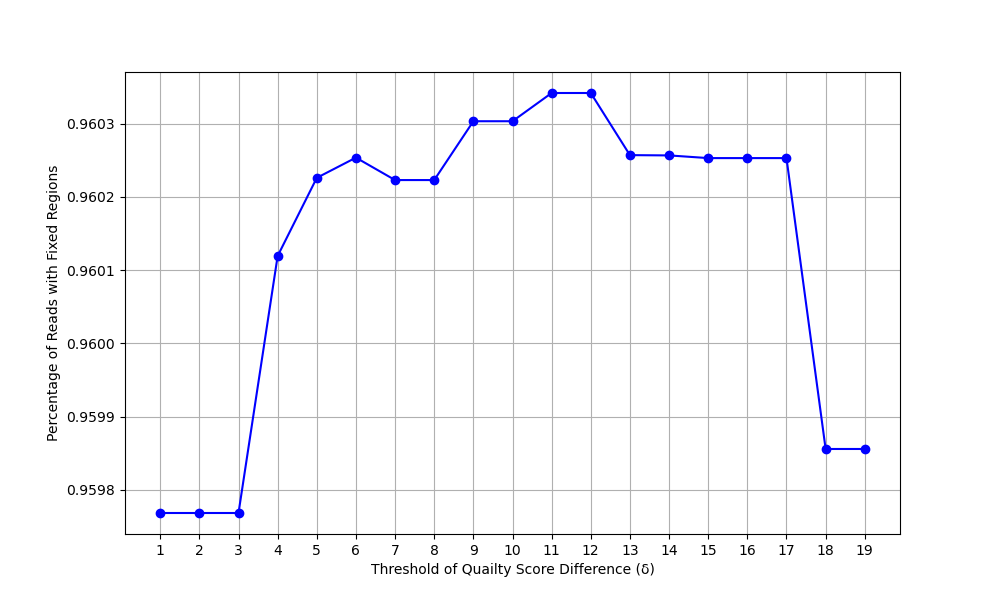
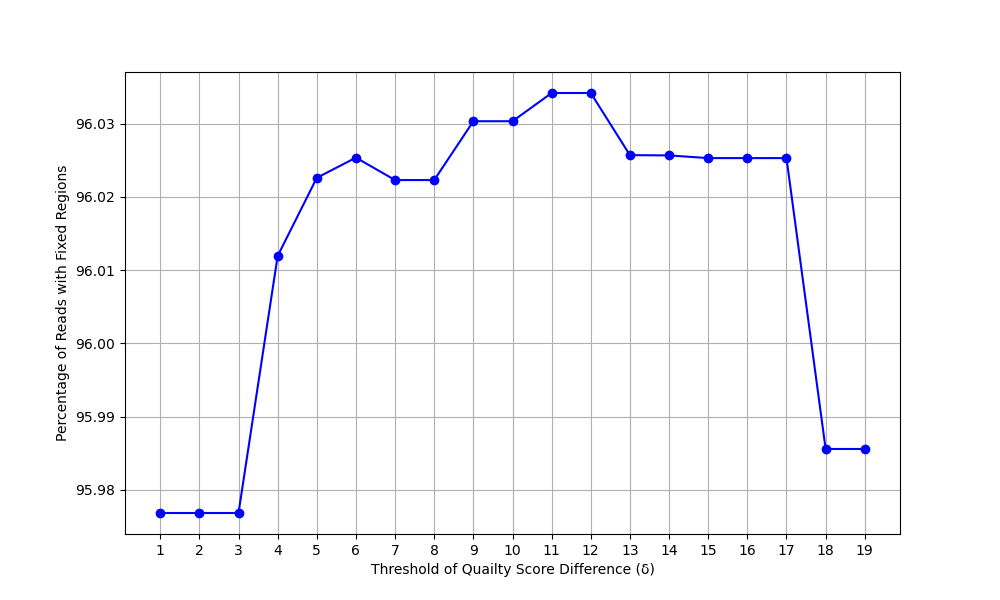
Init

Changed region(s): [[0.031, 0.27, 0.124, 0.75], [0.062, 0.81, 0.093, 0.84], [0.062, 0.18, 0.093, 0.21]]

diff --git a/dev_Tools/visualizationGraphs.py b/dev_Tools/visualizationGraphs.py
@@ -130,20 +130,20 @@ def graph_sequence_length_distribution(data_path, output_path):
     
     ax1 = fig.add_subplot(111)
     
-    ax1.bar(np.arange(len(data)) + 1, data, width=1.0, alpha=0.7)
+    ax1.bar(np.arange(len(data)), data, width=1.0, alpha=0.7)
     ax1.set_xlabel('Sequence Length (base pairs)')
     ax1.set_xlim(min(has_values)-5, max(has_values)+5)
     ax1.set_ylabel('Count')
     ax1.set_yscale('log')
     
     ax2 = ax1.twinx()
-    ax2.plot(np.arange(len(data)) + 1, percentages, color='xkcd:burnt orange', marker='o', label='Percentage of Total Sequences')
+    ax2.plot(np.arange(len(data)), percentages, color='xkcd:burnt orange', marker='o', label='Percentage of Total Sequences')
     ax2.set_ylabel('Percentage of Total Sequences (%)', color='xkcd:burnt orange')
     ax2.tick_params(axis='y')
     ax2.set_ylim(bottom=0, top=max(percentages[has_values]) + 5)
     
     
-    plt.title(f'Distribution of Sequence Lengths - Target length 68 base pairs \n Percentage at Target Length: {percentages[68]:.2f}, Percetage within 1bp: {np.sum(percentages[67:69]):.2f}%')
+    plt.title(f'Distribution of Sequence Lengths - Target length 68 base pairs \n Percentage at Target Length: {percentages[68]:.2f}%, Percetage within 1bp: {np.sum(percentages[67:69]):.2f}%')
     plt.savefig(output_path)
     plt.show()
     
@@ -152,11 +152,11 @@ def graph_delta_score(json_file):
     with open(json_file, 'r') as f:
         data = json.load(f)
 
-    extracted_data = {d_length : values["both_counts"] / values["total_reads"] for d_length, values in data.items()}
+    extracted_data = {d_length : 100 * (values["both_counts"] / values["total_reads"]) for d_length, values in data.items()}
     delta_lengths = list(extracted_data.keys())
     ratios = list(extracted_data.values())
     plt.figure(figsize=(10, 6))
-    plt.plot(delta_lengths, ratios, color='blue', marker='o', label='Total Reads to Final Reads Ratio')
+    plt.plot(delta_lengths, ratios , color='blue', marker='o', label='Total Reads to Final Reads Ratio')
     plt.xlabel('Threshold of Quailty Score Difference (δ)')
     plt.ylabel('Percentage of Reads with Fixed Regions')
     # plt.title('Effect of Delta Threshold on Read Retention')
@@ -179,11 +179,11 @@ def graph_improvements(json_file):
         reverses.append(value["reverse"]["both_counts"] / value["reverse"]["total_reads"])
         mergeds.append(value["merged"]["both_counts"] / value["merged"]["total_reads"])
         
-    data = [forawrds, reverses, mergeds]
+    data = [[f * 100 for f in forawrds], [r * 100 for r in reverses], [m * 100 for m in mergeds]]
     
-    forawrds_npy = np.array(forawrds) * 100
-    reverses_npy = np.array(reverses) * 100
-    mergeds_npy = np.array(mergeds) * 100
+    forawrds_npy = np.array(forawrds) 
+    reverses_npy = np.array(reverses) 
+    mergeds_npy = np.array(mergeds) 
     
     print("Forward Reads - Mean: ", np.mean(forawrds_npy), " Std Dev: ", np.std(forawrds_npy))
     print("Reverse Reads - Mean: ", np.mean(reverses_npy), " Std Dev: ", np.std(reverses_npy))
@@ -213,9 +213,9 @@ if __name__ == "__main__":
     # output_image = "dev_Tools/levenstein_distribution.png"
     # graph_levenstein_distribution(input_file, output_image)
     
-    # input_file = "sequence_length_distribution.npy"
-    # output_image = "dev_Tools/sequence_len_distribution.png"
-    # graph_sequence_length_distribution(input_file, output_image)
+    input_file = "sequence_length_distribution.npy"
+    output_image = "dev_Tools/sequence_len_distribution.png"
+    graph_sequence_length_distribution(input_file, output_image)
     
     # input_file = "dev_Tools/p3anut_delta_evaluation.json"
     # graph_delta_score(input_file)
